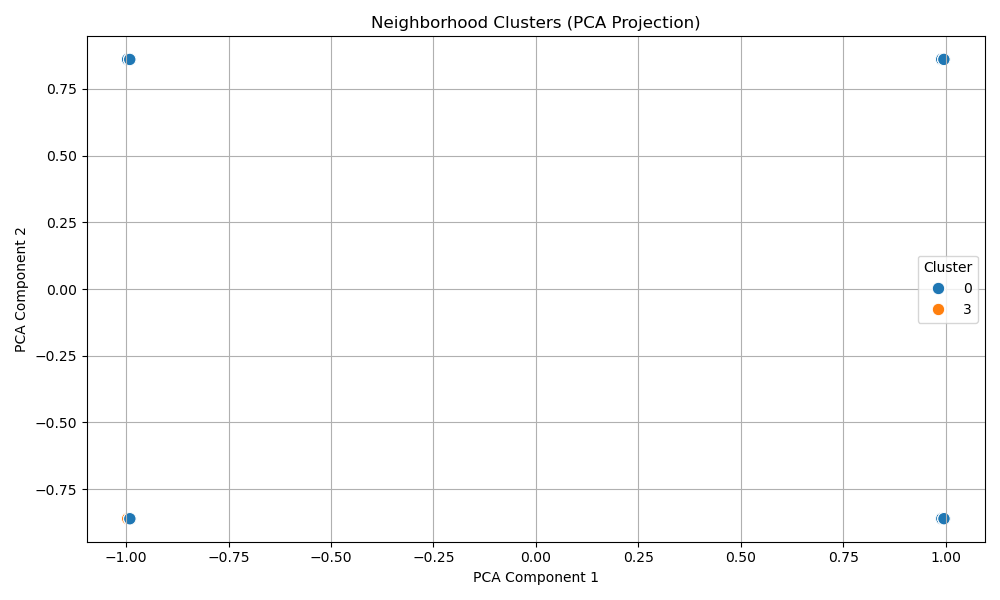
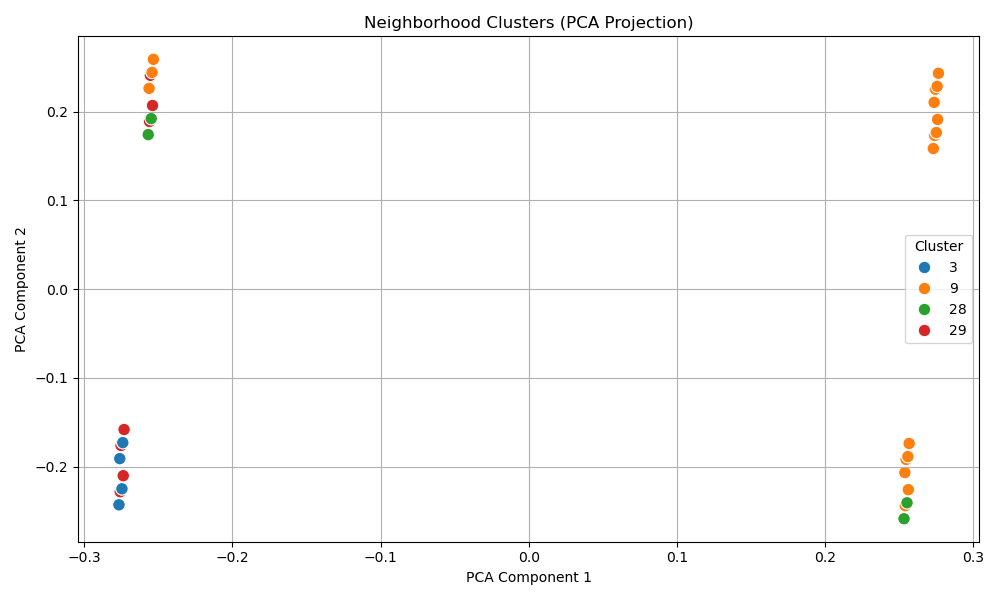
increase  clusters

diff --git a/models/idea_one_model.py b/models/idea_one_model.py
@@ -62,7 +62,7 @@ print("df columns:", df.columns.tolist())
 
 # Select columns that are safe and valid for clustering
 clustering_features = df[[
-    'rent2019', 'rent2020', 'rent2021', 'rent2022', 'rent2023', 'CrimeOccurances',
+    'rent2019', 'rent2020', 'rent2021', 'rent2022', 'rent2023', 'CrimeRate',
     'WalkScore', 'TransitScore','BikeScore', 'rent2024'
 ]]
 
@@ -89,7 +89,7 @@ plt.savefig("elbow_plot.png")
 plt.close()
 
 # Fit final model with k=4 (or change this after checking elbow plot)
-kmeans = KMeans(n_clusters=12, random_state=42, n_init='auto')
+kmeans = KMeans(n_clusters=30, random_state=42, n_init='auto')
 df['Cluster'] = kmeans.fit_predict(scaled_features)
 
 # View clusters
@@ -117,7 +117,7 @@ print(df)
 
 #Cluster interpretation summary
 summary = df.groupby('Cluster')[[
-   'rent2019', 'rent2020', 'rent2021', 'rent2022', 'rent2023', 'CrimeOccurances',
+   'rent2019', 'rent2020', 'rent2021', 'rent2022', 'rent2023', 'CrimeRate',
      'WalkScore', 'TransitScore','BikeScore', 'rent2024'
 ]].mean().round(2)
 
@@ -125,7 +125,7 @@ print("\nCluster Summary:")
 print(summary)
 
 # Print sample neighborhoods from each cluster
-for i in range(12):
+for i in range(30):
     print(f"\nCluster {i} neighborhoods:")
     print(df[df['Cluster'] == i]['NeighbourhoodName'].unique()) 
 
@@ -201,7 +201,7 @@ bounds_dict = {
 }
 
 column_map = {
-    'crimerate': 'CrimeOccurances',
+    'crimerate': 'CrimeRate',
     'affordability': 'rent2024', 
     'transitscore': 'TransitScore', 
     'walkscore': 'WalkScore',
@@ -215,7 +215,7 @@ filtered_df = df.copy()
 
 # drop unneeded columns
 filtered_df = filtered_df.drop(columns=['NeighbourhoodNumber', 'CenterLocation', 
-                                         'CityZone', 'CMHCZone', 'CrimeOccurances', 
+                                         'CityZone', 'CMHCZone', 'CrimeRate', 
                                          'SupportiveHousingCount', 'SupportiveUnits', 
                                          'SheltersCount','Distance to U of A (km)',
                                         'Distance to MacEwan (km)', 
@@ -263,7 +263,7 @@ all_combinations = list(product(*combo_lists))
 
 # flatten tuples
 combo_df = pd.DataFrame(all_combinations, columns=[
-    'historical_afford', 'rent2023', 'CrimeOccurances', 'WalkScore', 'TransitScore', 'BikeScore'
+    'historical_afford', 'rent2023', 'CrimeRate', 'WalkScore', 'TransitScore', 'BikeScore'
 ])
 
 # split historical affordability into separate columns
@@ -274,7 +274,7 @@ combo_df = combo_df.drop(columns=['historical_afford'])
 
 columns = [
     'rent2019', 'rent2020', 'rent2021', 'rent2022',
-    'rent2023', 'CrimeOccurances', 'WalkScore', 'TransitScore', 'BikeScore'
+    'rent2023', 'CrimeRate', 'WalkScore', 'TransitScore', 'BikeScore'
 ]
 combo_df = combo_df[columns]
 print(combo_df)
@@ -285,7 +285,7 @@ print(combo_df)
 #%%%
 
 X = df.drop(columns=['rent2024', 'rent2025','NeighbourhoodNumber', 'CenterLocation', 
-                     'CityZone', 'CMHCZone', 'CrimeRate', 
+                     'CityZone', 'CMHCZone', 'CrimeOccurances', 
                      'SupportiveHousingCount', 'SupportiveUnits', 
                      'SheltersCount','Distance to U of A (km)',
                     'Distance to MacEwan (km)', 
